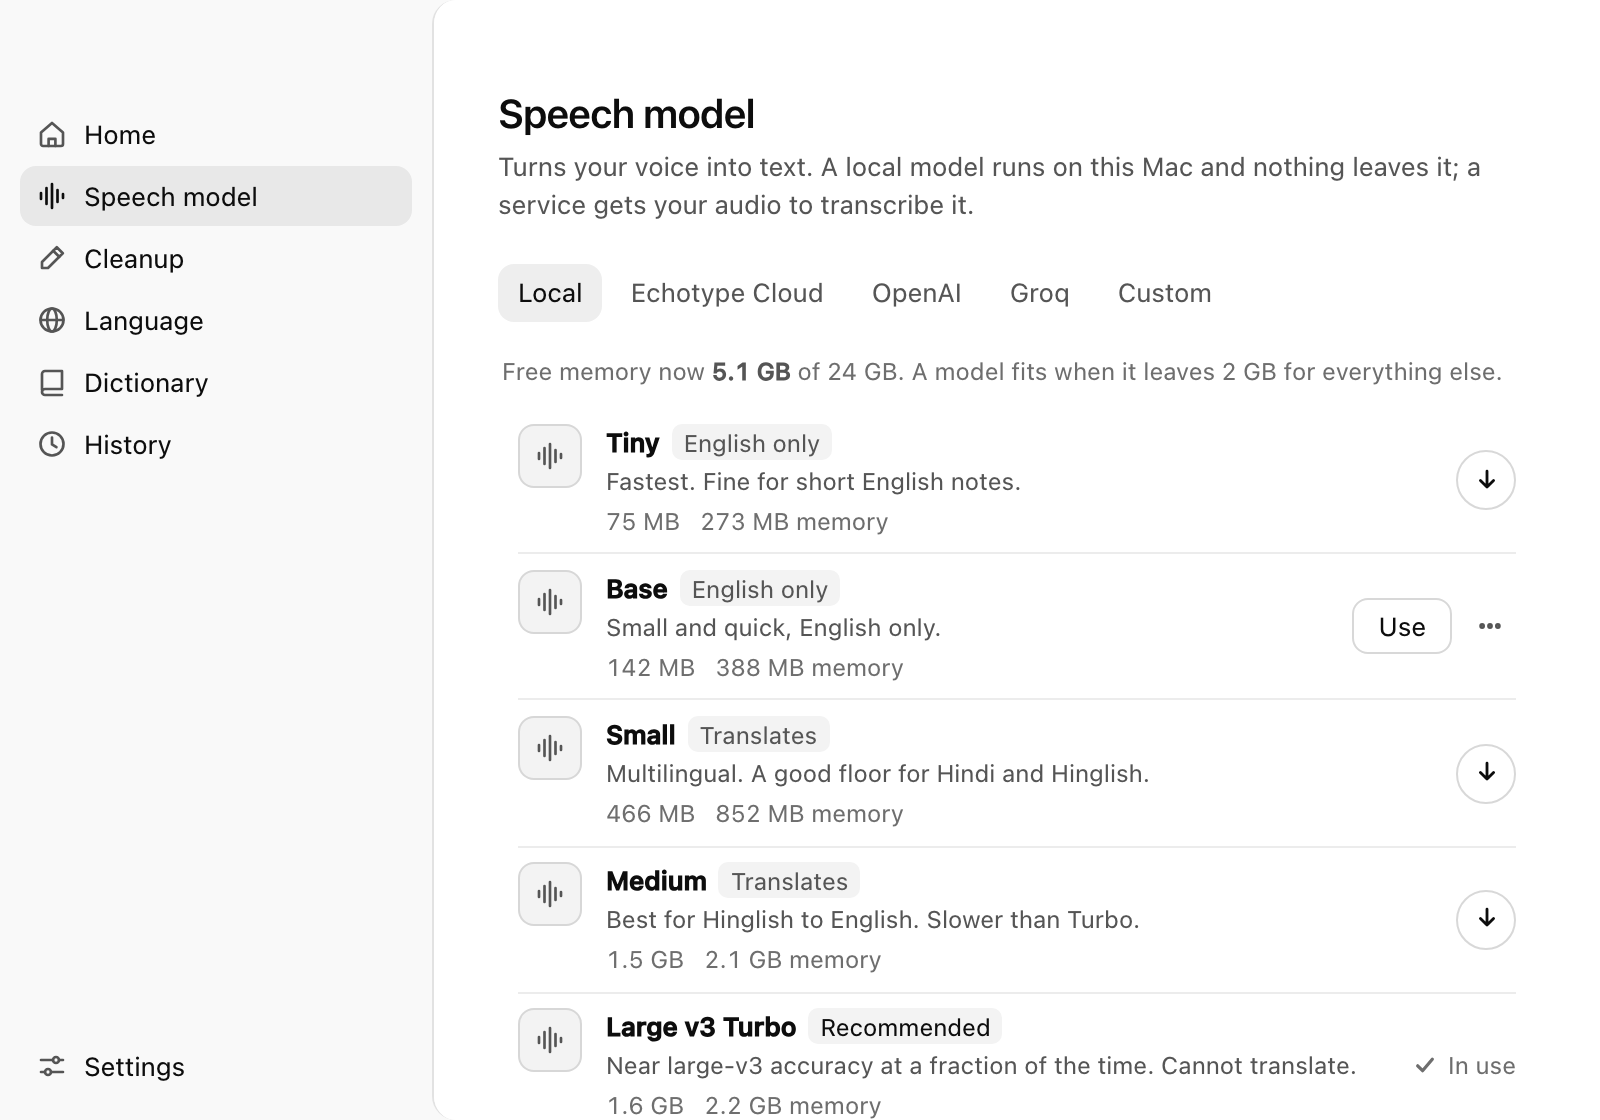
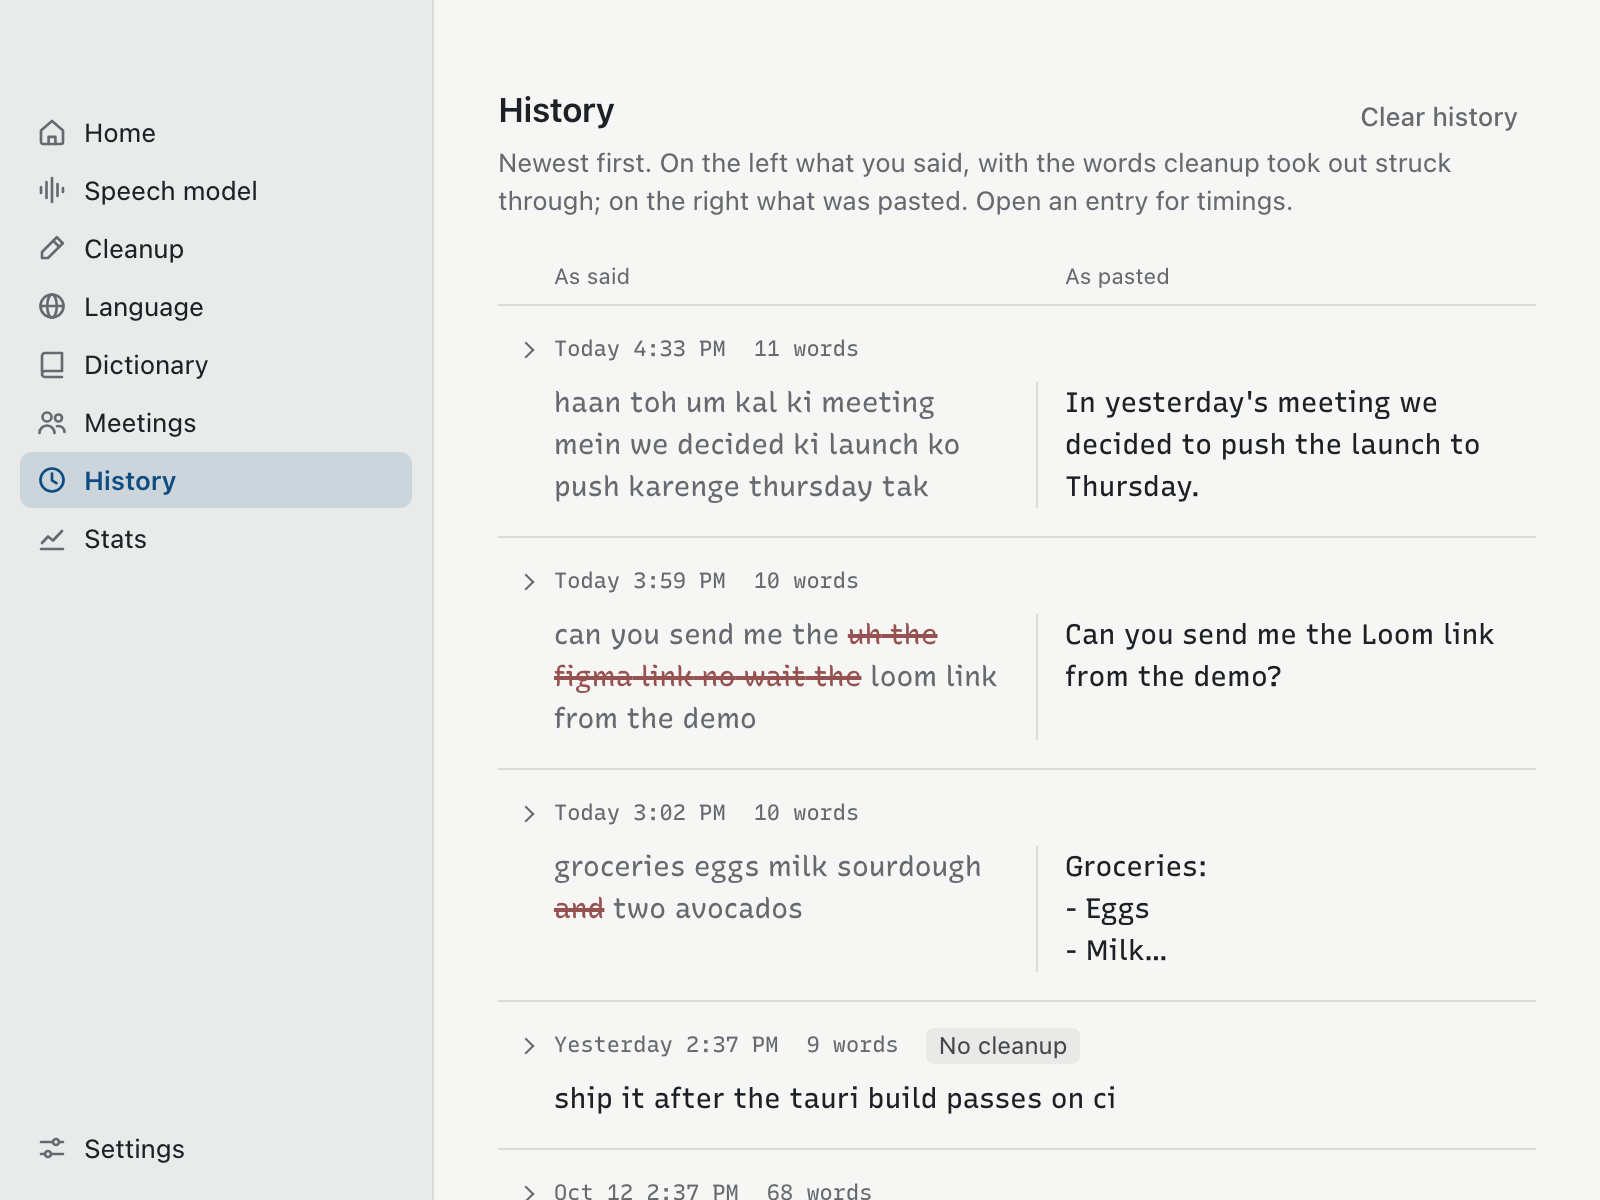
README: pill, meeting notes, stats and looks; History screenshot; macOS 13 and permissions in the setup prompt

diff --git a/README.md b/README.md
@@ -16,7 +16,7 @@
 </p>
 
 <p align="center">
-  <img src=".github/assets/screenshot.png" width="760" alt="Echotype's speech model settings, showing local whisper models with their download size and memory needs">
+  <img src=".github/assets/screenshot.png" width="760" alt="Echotype's History page: what you said on the left, with the filler words cleanup removed struck through, and what was pasted on the right">
 </p>
 
 ## What it does
@@ -24,11 +24,14 @@
 - **Dictate into any app.** Hold <kbd>⌥ Space</kbd>, talk, release. Echotype transcribes, cleans up and pastes, then puts your clipboard back.
 - **Reads like you typed it.** Filler words go, "four, no wait, five" becomes "5", spoken lists become lists, "new line" starts a new line.
 - **Speak Hinglish, get English.** Talk in Hindi, English or both at once; Echotype writes English.
+- **A pill that stays out of the way.** A thin bar at the bottom of the screen. While you talk it shows a needle that swings with your voice. Drag it anywhere; it follows the screen you are using, or stays where you put it. Prefer nothing on screen? Use the menu bar icon instead. When nothing can take text, it shows your words in a small card with **Copy** rather than pasting into nowhere.
+- **Meeting notes.** Echotype hears your microphone and the computer's audio, writes down who said what and, with a cleanup model set up, sums up decisions and action items. It all runs on your Mac.
 - **Drop in a voice note.** Drag a WhatsApp `.opus`, `.m4a`, `.mp3` or `.wav` onto the window for a clean transcript.
 - **Any model, both stages.** Local whisper.cpp on your machine, or any OpenAI-compatible endpoint: OpenAI, Groq, OpenRouter, Ollama, LM Studio, or your own server.
 - **Knows your machine.** Echotype checks free memory before it loads or recommends a model.
 - **A local API for your scripts and agents.** `POST http://127.0.0.1:7811/v1/audio/transcriptions` runs the same pipeline.
-- **See how much you talk.** The Stats page shows your words per minute, words per day and a year grid of the days you dictated. They are counts only, never your text, and stay on your computer; switch them off or clear them on the same page.
+- **See how much you talk.** The Stats page shows your words, words per minute and a year grid of the days you dictated. They are counts only, never your text, and stay on your computer; switch them off or clear them on the same page.
+- **Three looks.** Foundry, pewter and ink with your words set in Recursive, is the default. Classic and Ink are one click away in Settings. All three follow your light or dark setting.
 
 With local models, nothing leaves your computer. API keys live in the system keychain.
 
@@ -48,14 +51,17 @@ Paste this into Claude Code, Codex, Cursor or any agent that can run commands:
 ```text
 Set up Echotype (https://github.com/Rohilalala/echotype) on this computer.
 
-1. Install what's missing: Rust (rustup), CMake and Node 20+. On Linux also install
+1. Install what's missing: Rust (rustup), CMake and Node 20+. A Mac needs macOS 13 or later.
+   On Linux also install
    libwebkit2gtk-4.1-dev libappindicator3-dev librsvg2-dev libasound2-dev libxdo-dev.
 2. Clone the repo, then in app/ run `npm install` and `npm run tauri build`.
 3. Install the built app (macOS: copy Echotype.app from
    app/src-tauri/target/release/bundle/macos to /Applications) and open it.
 4. Check how much memory is free. In Echotype's Speech model page, download the model it
-   marks Recommended; pick Medium instead if I speak a language other than English.
-5. Walk me through granting Microphone and Accessibility access.
+   marks Recommended. If I want Hindi or Hinglish written as English, also download Medium.
+5. Walk me through granting Microphone and Accessibility access. If I want meeting notes,
+   also Screen Recording (for the computer's audio). If I want to dictate with the fn key,
+   also Input Monitoring, then relaunch Echotype.
 6. Prove it works: run Echotype's CLI on a short recording,
    `/Applications/Echotype.app/Contents/MacOS/echotype --transcribe <file>`, and show me the text.
 
@@ -71,7 +77,7 @@ npm install
 npm run tauri build
 ```
 
-Needs Rust, CMake and Node 20+. Transcribe a file without opening the window:
+Needs Rust, CMake and Node 20+, and macOS 13 or later on a Mac. Transcribe a file without opening the window:
 
 ```sh
 echotype --transcribe note.opus
@@ -91,7 +97,7 @@ Every shortcut can be changed in Settings, and paste last and copy last can be t
 
 ### The pill (macOS)
 
-A thin bar waits at the bottom of the screen your cursor is on. Click it to dictate hands-free and click again (or ✓) to finish, ✕ cancels. Right-click it for the microphone, language, paste last, history, hide for 1 hour and settings. Turn it off under Settings → Pill, or hide it for an hour from the menu bar; it still shows while you dictate.
+A thin bar waits at the bottom of the screen your cursor is on. Click it to dictate hands-free and click again (or ✓) to finish, ✕ cancels. Right-click it for the microphone, language, paste last, history, meeting notes, hide for 1 hour and settings. Turn it off under Settings → Pill, or hide it for an hour from the menu bar; it still shows while you dictate.
 
 Drag the pill anywhere, on any display. Each display remembers where you left it, and a double-click puts it back at the bottom centre. It never goes off-screen or under the menu bar. The pill moves to the screen you are using; turn off **Move to the screen I'm using** to keep it on the screen you last dragged it to.
 
@@ -156,7 +162,7 @@ For computers that can't spare the memory, Echotype Cloud runs transcription and
 
 | Plan | Price | Includes |
 |---|---|---|
-| Free | $0 | 2,000 words a week |
+| Free | $0 | 2,000 words and 2 audio hours a week |
 | Pro | $6 a month or $60 a year | Unlimited words, 40 audio hours a month fair use |
 
 Pick **Echotype Cloud** as the speech provider and sign in with your email; there's no password. Audio is transcribed and dropped. The server keeps word and audio-second counts, nothing else.
